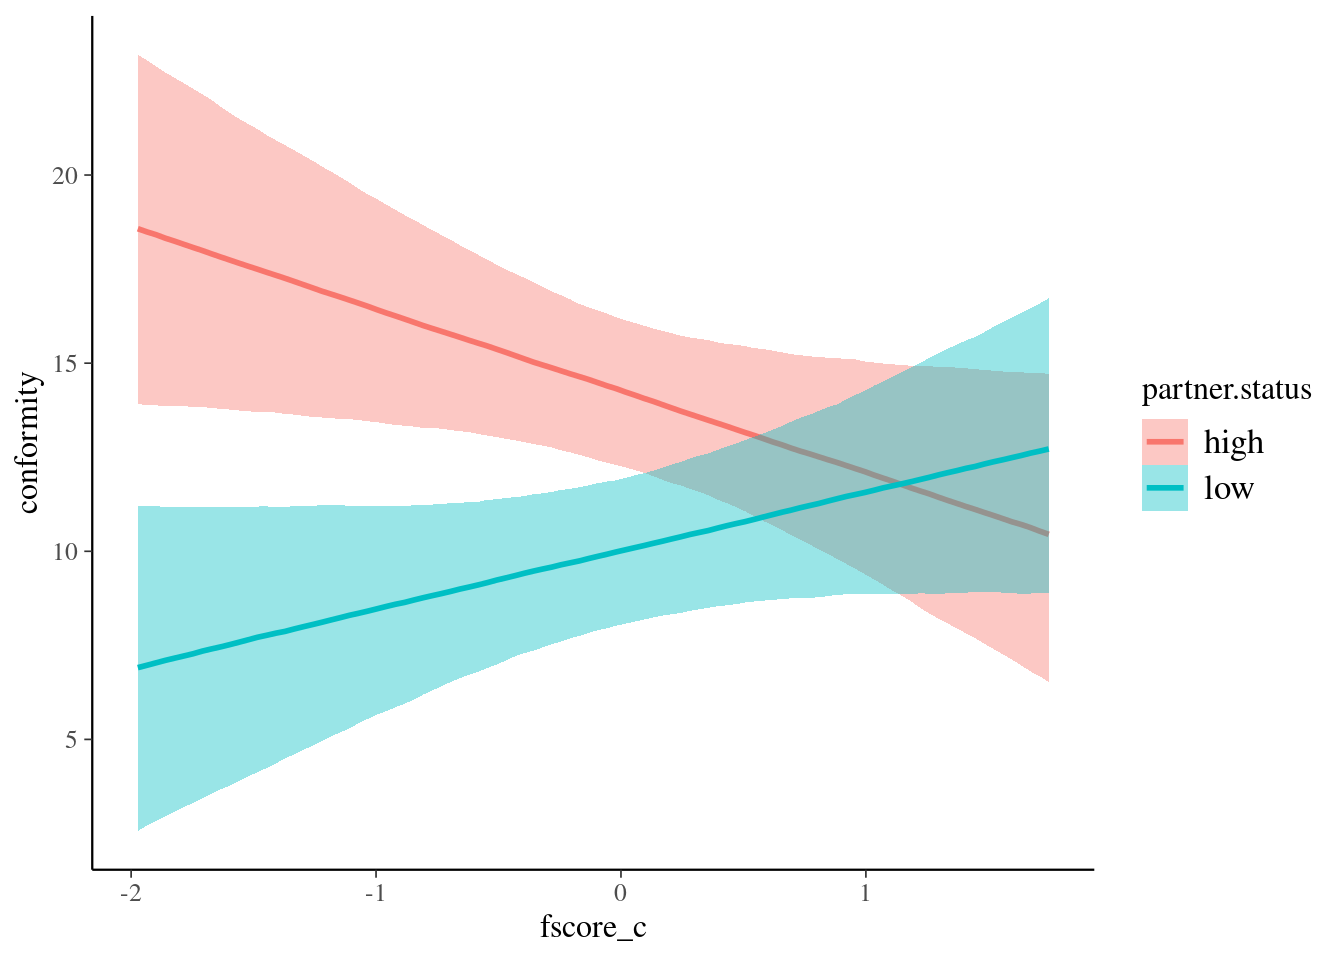
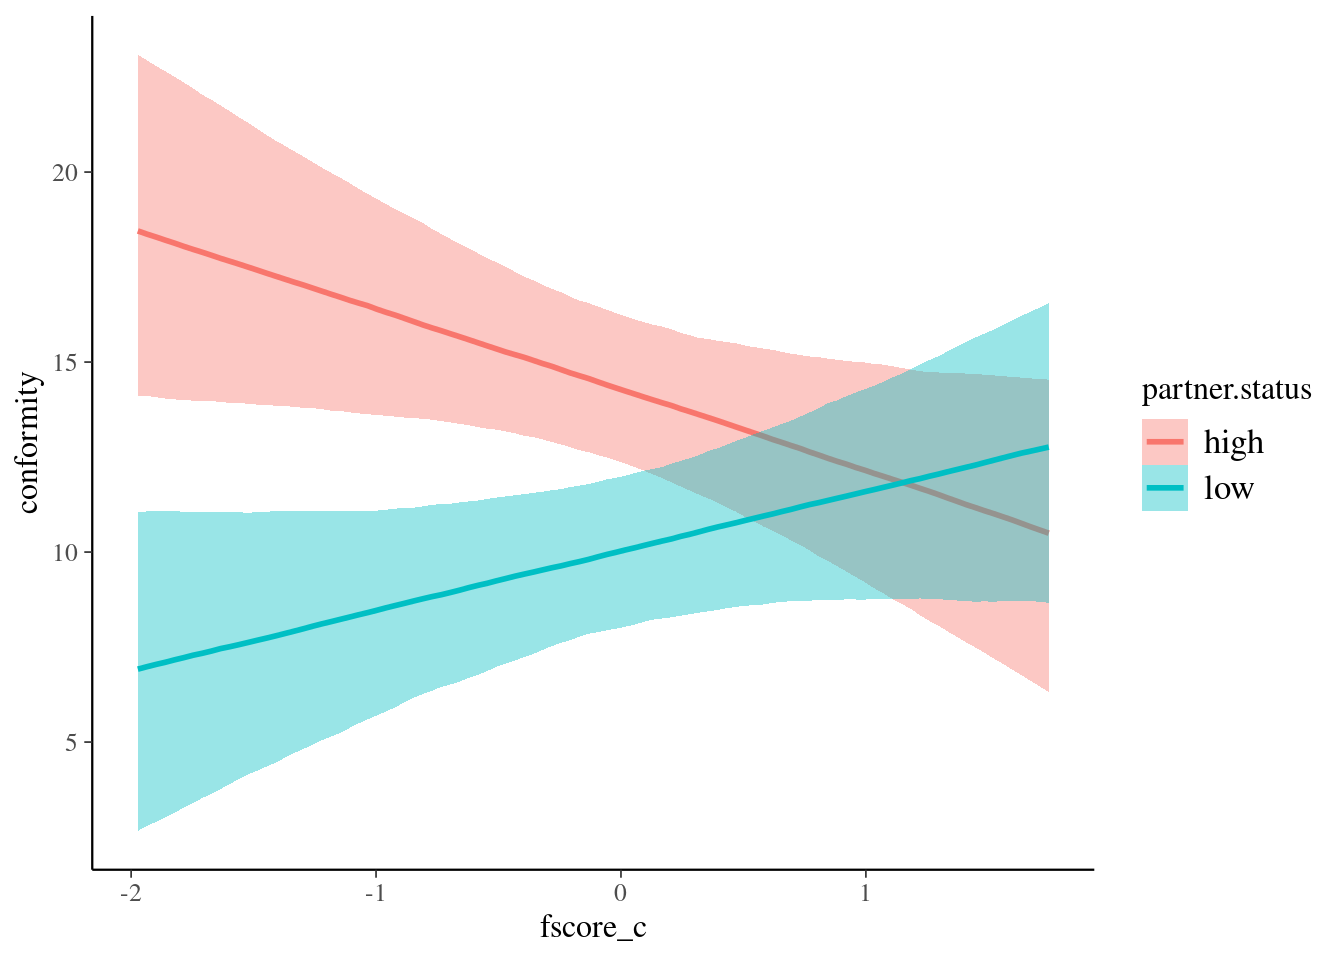
update

diff --git a/post/test/index.html b/post/test/index.html
@@ -331,7 +331,7 @@ Moderation analysis is one the most widely used tools to approach interactions i
   
   <span class="middot-divider"></span>
   <span class="article-reading-time">
-    6 min read
+    9 min read
   </span>
   
 
@@ -416,9 +416,40 @@ Moderation analysis is one the most widely used tools to approach interactions i
 <p><em>This post is the first of a series of short tutorials on how to approach statistical analyses common among social psychologist using Bayesian approach and R package - brms</em></p>
 <p>Moderation analysis is one the most widely used tools to approach interactions in regression models with at least 1 continuous term. Its popularity has outbursted since the release of an SPSS/SAS macro <a href="https://www.processmacro.org/">PROCESS</a>. PROCESS is easy to use and allows to fit a variety of models. However, it lacks certain capabilities (like ability to fit multilevel models or generalized regression models or mix of both). Also PROCESS cannot handle Bayesian moderation analysis. One can use <a href="https://jasp-stats.org/">JASP</a> to conduct Baysian regression analysis with interaction terms, but sadly it’s post-processing capabilities are quite limited (at least to me).</p>
 <p>In this post I will show, how to easily and in just a few steps fit Bayesian moderation model in R. As some of my colleagues admitted lack of R package that would replace PROCESS is one of the major factors that restrains them from swapping SPSS with R. Actually there are certain packages that aspire to replace PROCESS in R. Here, however I would to show you that you don’t need to use a specialized package and you can go on with a quite general one - <code>brms</code>.</p>
-<p>Lets start with something relatively simple and easy to follow.</p>
-<div id="continuous-and-categorical-predictors" class="section level2">
-<h2>Continuous and categorical predictors</h2>
+<div id="background" class="section level2">
+<h2>Background</h2>
+<p>First, I will introduce some basic concepts. This is not a formal introduction, it is not systematic or exhaustive. This is just a small recap for those who have already underataken some course on linear models and Bayesian statistics.</p>
+<p>Within the Bayesian approach, we are interested in the so called subjective probability associated with some parameters of interest, given some data that we have observed. For example, how large support a new political party has, given that in some poll 45 participants out of 1000 declared voting for such party. The poll data informs us that it is somewhere around 5%. This subjective probability is called posterior.</p>
+<p>Now lets introduce the essence of Bayesianism. Suppose, that prior to viewing the results of this poll, you saw yet another (conducted rougly in the same week), that gave this new political party a support of 15%. Should you include this prior knowledge when drawing conclusion from the poll that you see now? It is quite natural to update your belief, i.e. if previously the support was 15% and the data indicates 5% the perhaps it is somewhere in the middle (depending on how you weight prior and current knowledge).</p>
+<p>This weighting can be formalized under the infamous Bayes theorem:</p>
+<p><span class="math display">\[p(\theta | \mathcal{D}) \sim p(\mathcal{D}|\theta)\times p(\theta)\]</span>
+Here, <em>posterior</em> <span class="math inline">\(p(\theta)\)</span> refers to our updated beliefs. <span class="math inline">\(p(\theta)\)</span> refers to our prior beliefs, hence it is called <em>prior</em>. <span class="math inline">\(p(\mathcal{D}|\theta)\)</span> is the part where updating takes part, it associated with new information and it is called <em>likelihood</em>. <span class="math inline">\(\theta\)</span> and <span class="math inline">\(\mathcal{D}\)</span> refer to parameter values and data respectively.</p>
+<p>In the context of linear regression (either with or without interaction terms).</p>
+<p><span class="math display">\[p(\theta | y, X) \sim p(y | \theta, X) \times p(\theta)\]</span></p>
+<p><span class="math inline">\(\theta\)</span> refers here to all parameters that are included in the model, i.e. regression coefficients and model error, lets write them as <span class="math inline">\(\theta = (\beta, \sigma)\)</span>. <span class="math inline">\(y\)</span> is our outcome variable and <span class="math inline">\(X\)</span> is our model design matrix. Lets examine how <span class="math inline">\(X\)</span> looks like in the case of moderation analysis (i.e. regression with interaction). Lets say that for each individual, we obtained measures of two variable each valued either <span class="math inline">\(-2\)</span> or <span class="math inline">\(2\)</span>. Suppose we have 4 individals with all possible combinations of the variables. Our design matrix is then:</p>
+<p><span class="math display">\[X = \begin{bmatrix}
+      1 &amp; -2 &amp; -2 &amp;  4 \\
+      1 &amp; -2 &amp;  2 &amp; -4 \\
+      1 &amp;  2 &amp; -2 &amp; -4 \\
+      1 &amp;  2 &amp;  2 &amp;  4
+      \end{bmatrix}
+\]</span></p>
+<p>The first colum refers to our regression intercept, it is just a column of ones. We put values of our variables in column 2 and 3. The fourth column refers to our interaction term. It is construed for each individual by multiplying values of the two observed variables, e.g. <span class="math inline">\(-2 \times 2 = -4\)</span>. Each column has its regression coefficient.</p>
+<p>Now, we can write our regression equation (using matrix notation) as:</p>
+<p><span class="math display">\[y = X\beta + \epsilon\]</span></p>
+<p>Or:</p>
+<p><span class="math display">\[y = \mathcal{N}(X\beta,\ \sigma)\]</span></p>
+<p>Where <span class="math inline">\(\sigma = \sqrt{Var(\epsilon)}\)</span> and <span class="math inline">\(\mathcal{N}\)</span> means that we assume residuals to be distributed as Normal (later I will show how we can modify this assumption) with mean equal to <span class="math inline">\(X\beta\)</span> and standard deviation equal to <span class="math inline">\(\sigma\)</span>.</p>
+<p>Without matrix notation, we would write an equation with interaction as:</p>
+<p><span class="math display">\[y_i = \hat{y_i} + \epsilon_i\]</span></p>
+<p><span class="math display">\[\hat{y_i} = \beta_1 + \beta_2x_{i2} + \beta_3x_{i3} + \beta_4x_{i2}x_{i3}\]</span></p>
+<p>Lets reframe this equation:</p>
+<p><span class="math display">\[\hat{y_i} = (\beta_1 + \beta_3x_{i3}) + (\beta_2 + \beta_4x_{i3})x_{i2}\]</span></p>
+<p>By grouping the terms under parentheses we obtained a simple regression equation, which shows us that effect of <span class="math inline">\(x_2\)</span> (focal predictor) on <span class="math inline">\(y\)</span> (i.e. the line slope and intercept) depends on the values of <span class="math inline">\(x_3\)</span> (moderator). We will use this fact later when we will conduct simple slope analysis.</p>
+</div>
+<div id="example" class="section level2">
+<h2>Example</h2>
+<p>Now, Lets start with something relatively simple and easy to follow.</p>
 <p>In this post I will extensively use <code>tidyverse</code>.</p>
 <pre class="r"><code># install.packages(&quot;tidyverse&quot;)
 # install.packages(&quot;carData&quot;)
@@ -484,38 +515,38 @@ fit1 &lt;-
 <tbody>
 <tr class="odd">
 <td align="left">Intercept</td>
-<td align="right">12.132</td>
-<td align="right">0.705</td>
-<td align="right">10.738</td>
-<td align="right">13.517</td>
+<td align="right">12.141</td>
+<td align="right">0.712</td>
+<td align="right">10.681</td>
+<td align="right">13.606</td>
 </tr>
 <tr class="even">
 <td align="left">partner.status1</td>
-<td align="right">2.134</td>
-<td align="right">0.699</td>
-<td align="right">0.743</td>
-<td align="right">3.499</td>
+<td align="right">2.132</td>
+<td align="right">0.709</td>
+<td align="right">0.785</td>
+<td align="right">3.550</td>
 </tr>
 <tr class="odd">
 <td align="left">fscore_c</td>
-<td align="right">-0.294</td>
-<td align="right">0.722</td>
-<td align="right">-1.709</td>
-<td align="right">1.147</td>
+<td align="right">-0.289</td>
+<td align="right">0.709</td>
+<td align="right">-1.688</td>
+<td align="right">1.073</td>
 </tr>
 <tr class="even">
 <td align="left">partner.status1:fscore_c</td>
-<td align="right">-1.862</td>
-<td align="right">0.724</td>
-<td align="right">-3.277</td>
-<td align="right">-0.448</td>
+<td align="right">-1.851</td>
+<td align="right">0.716</td>
+<td align="right">-3.292</td>
+<td align="right">-0.435</td>
 </tr>
 <tr class="odd">
 <td align="left">sigma</td>
-<td align="right">4.689</td>
-<td align="right">0.525</td>
-<td align="right">3.799</td>
-<td align="right">5.849</td>
+<td align="right">4.703</td>
+<td align="right">0.549</td>
+<td align="right">3.797</td>
+<td align="right">5.905</td>
 </tr>
 </tbody>
 </table>
@@ -585,17 +616,17 @@ fit1 &lt;-
 <tbody>
 <tr class="odd">
 <td align="left">prior_b</td>
-<td align="right">0.164</td>
-<td align="right">9.970</td>
-<td align="right">-19.263</td>
-<td align="right">19.817</td>
+<td align="right">-0.264</td>
+<td align="right">10.137</td>
+<td align="right">-20.094</td>
+<td align="right">19.251</td>
 </tr>
 <tr class="even">
 <td align="left">prior_sigma</td>
-<td align="right">10.854</td>
-<td align="right">12.209</td>
-<td align="right">0.339</td>
-<td align="right">40.729</td>
+<td align="right">10.826</td>
+<td align="right">11.872</td>
+<td align="right">0.354</td>
+<td align="right">42.077</td>
 </tr>
 </tbody>
 </table>
@@ -629,32 +660,32 @@ ss1$hypothesis %&gt;%
 <tbody>
 <tr class="odd">
 <td align="left">high_F_score</td>
-<td align="right">0.272</td>
-<td align="right">0.982</td>
-<td align="right">-1.620</td>
-<td align="right">2.164</td>
-<td align="right">13.785</td>
-<td align="right">0.932</td>
+<td align="right">0.282</td>
+<td align="right">1.010</td>
+<td align="right">-1.677</td>
+<td align="right">2.271</td>
+<td align="right">14.145</td>
+<td align="right">0.934</td>
 <td align="left"></td>
 </tr>
 <tr class="even">
 <td align="left">medium_F_score</td>
-<td align="right">2.134</td>
-<td align="right">0.699</td>
-<td align="right">0.743</td>
-<td align="right">3.499</td>
-<td align="right">0.190</td>
-<td align="right">0.160</td>
+<td align="right">2.132</td>
+<td align="right">0.709</td>
+<td align="right">0.785</td>
+<td align="right">3.550</td>
+<td align="right">0.243</td>
+<td align="right">0.195</td>
 <td align="left">*</td>
 </tr>
 <tr class="odd">
 <td align="left">low_F_score</td>
-<td align="right">3.996</td>
-<td align="right">1.031</td>
-<td align="right">1.987</td>
-<td align="right">6.096</td>
-<td align="right">0.005</td>
-<td align="right">0.004</td>
+<td align="right">3.983</td>
+<td align="right">1.006</td>
+<td align="right">2.091</td>
+<td align="right">5.969</td>
+<td align="right">0.014</td>
+<td align="right">0.014</td>
 <td align="left">*</td>
 </tr>
 </tbody>
@@ -684,22 +715,22 @@ ss2$hypothesis %&gt;%
 <tbody>
 <tr class="odd">
 <td align="left">high_partner_status</td>
-<td align="right">-2.157</td>
-<td align="right">1.054</td>
-<td align="right">-4.150</td>
-<td align="right">-0.001</td>
-<td align="right">1.571</td>
-<td align="right">0.611</td>
+<td align="right">-2.139</td>
+<td align="right">1.053</td>
+<td align="right">-4.230</td>
+<td align="right">-0.072</td>
+<td align="right">1.828</td>
+<td align="right">0.646</td>
 <td align="left">*</td>
 </tr>
 <tr class="even">
 <td align="left">low_partner_status</td>
-<td align="right">1.568</td>
-<td align="right">0.989</td>
-<td align="right">-0.355</td>
-<td align="right">3.496</td>
-<td align="right">4.325</td>
-<td align="right">0.812</td>
+<td align="right">1.562</td>
+<td align="right">0.960</td>
+<td align="right">-0.351</td>
+<td align="right">3.442</td>
+<td align="right">3.828</td>
+<td align="right">0.793</td>
 <td align="left"></td>
 </tr>
 </tbody>

diff --git a/index.html b/index.html
@@ -1199,7 +1199,7 @@
   
   <span class="middot-divider"></span>
   <span class="article-reading-time">
-    6 min read
+    9 min read
   </span>
   
 

diff --git a/post/index.html b/post/index.html
@@ -358,7 +358,7 @@
   
   <span class="middot-divider"></span>
   <span class="article-reading-time">
-    6 min read
+    9 min read
   </span>
   
 
